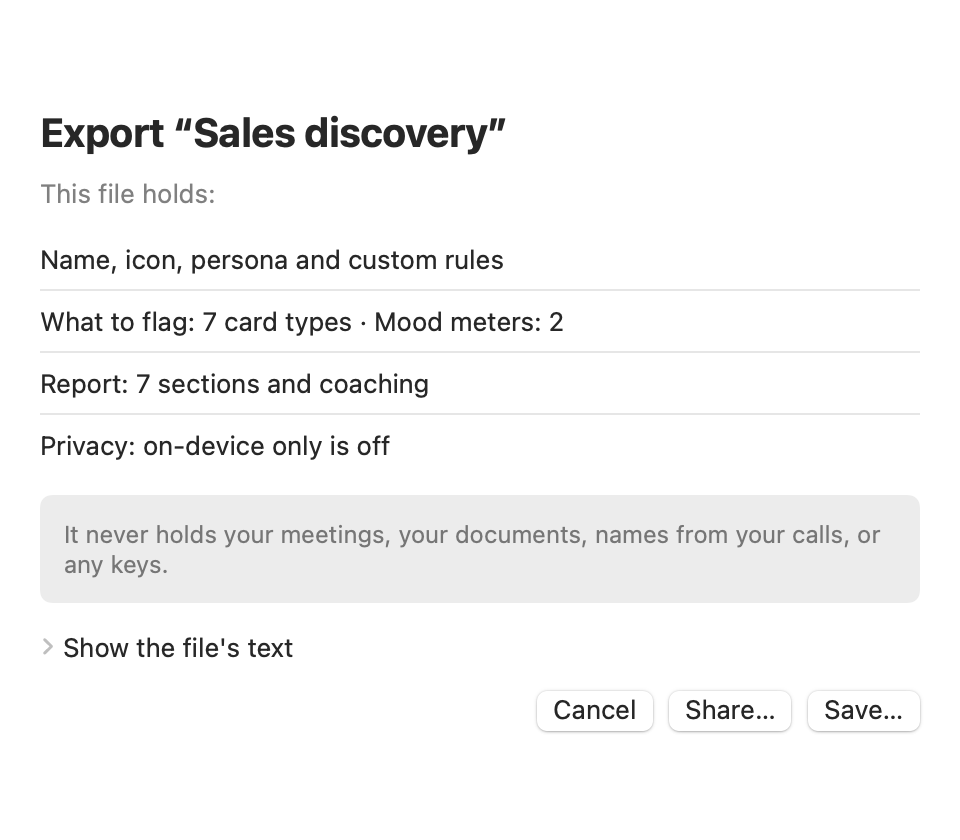
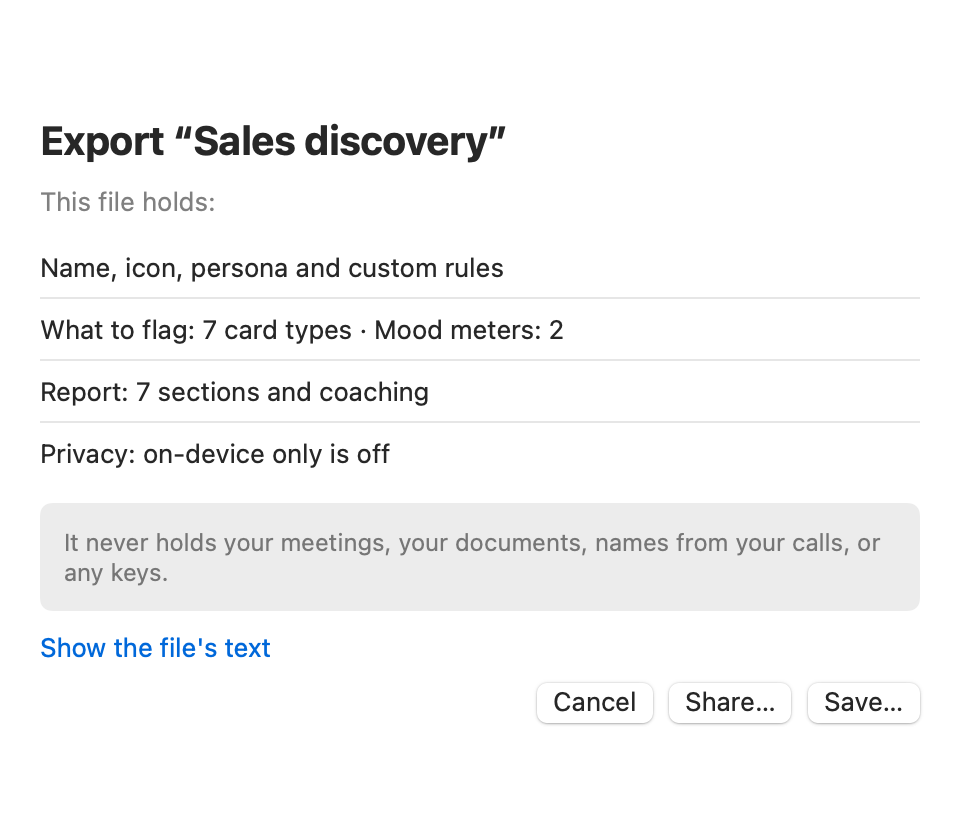
Docs for 0.28.0: What's new, README and help for Profiles 2.0
Help: rewrite progress (Keep working, Stop), the exact Reset to the ...
report label, the review screen listing custom rules, the one-time
update screen and its "Before Profiles 2.0" version, and that the update
is one way. New export shot (the file's text is now a link). README:
eight built-ins, a report per profile, scorecards, share, Claude
suggestions, Rewrite Report.

diff --git a/docs/help/profiles.html b/docs/help/profiles.html
@@ -3,7 +3,7 @@
 <head>
 <meta charset="utf-8">
 <meta name="viewport" content="width=device-width, initial-scale=1">
-<meta name="keywords" content="profiles, call types, sales, coaching, interview, kinds, card kinds, gauges, persona, tone, custom rules, trigger, pinned, priority, internal key, icon, color, edit, duplicate, advanced, report, report template, sections, scorecard, criteria, coaching, share, export, import, parrotprofile, saved versions, restore, investor pitch, profiles 2.0, backup, classic report">
+<meta name="keywords" content="profiles, call types, sales, coaching, interview, kinds, card kinds, gauges, persona, tone, custom rules, trigger, pinned, priority, internal key, icon, color, edit, duplicate, advanced, report, report template, sections, scorecard, criteria, coaching, share, export, import, parrotprofile, saved versions, restore, investor pitch, profiles 2.0, reports can now match, before profiles 2.0, reset report, downgrade, older version, backup, classic report">
 <title>Call profiles</title>
 <link rel="canonical" href="https://openparrot.app/help/profiles.html">
 <!-- The guide's home is openparrot.app/help. GitHub Pages sends visitors there; the in-app copy stays put. -->
@@ -93,7 +93,9 @@ shape it.</p>
 </ul>
 
 <p>Editing anything makes it your own report, and improvements to the built-in
-stop reaching it. <strong>Reset</strong> brings the built-in's report back.
+stop reaching it. <strong>Reset to the Interview report</strong> (named after
+the profile) brings the built-in's report back. It asks first, and keeps yours
+under <a href="#versions">Saved versions</a>.
 Your custom rules still apply to the report, so "always mention budget" keeps
 working.</p>
 
@@ -120,8 +122,8 @@ report and the on-device only setting. It never carries your meetings, your
 documents, names from your calls, or any keys.</p>
 
 <p>To add one, double-click the file, drop it on the profile list, or use the
-import button under the list. Parrot shows what it would add or change before
-anything happens:</p>
+import button under the list. Parrot shows everything it would add or change,
+custom rules included, before anything happens:</p>
 
 <img src="img/profile-review.png" alt="The review screen: who it came from and why, persona before and after, cards added and removed">
 
@@ -155,8 +157,11 @@ update did:</p>
   <li>Past meetings keep their reports. For a new-style report on one, use
   <a href="reports.html#rewrite">Rewrite Report</a>.</li>
   <li>A backup of every profile was saved first. The screen you saw after the
-  update has <strong>Show backup in Finder</strong>; to bring one back, import
-  it.</li>
+  update, <strong>Reports can now match each call type</strong>, has
+  <strong>Show backup in Finder</strong>; to bring one back, import it. Each
+  profile's Saved Versions also has <strong>Before Profiles 2.0</strong>.</li>
+  <li>The update is one way: an older version of Parrot can't open your
+  meetings afterwards.</li>
 </ul>
 <p>To switch a built-in back, pick <strong>Classic report</strong> in its Report
 menu.</p>

diff --git a/docs/help/reports.html b/docs/help/reports.html
@@ -3,7 +3,7 @@
 <head>
 <meta charset="utf-8">
 <meta name="viewport" content="width=device-width, initial-scale=1">
-<meta name="keywords" content="report, write report, no report, summary, coaching, talk balance, cost, price, tokens, export, markdown, polish, speakers, who said what, name speaker, remember voices, live speaker labels, scorecard, rewrite, rewrite report, undo rewrite, report template, profile">
+<meta name="keywords" content="report, write report, no report, summary, coaching, talk balance, cost, price, tokens, export, markdown, polish, speakers, who said what, name speaker, remember voices, live speaker labels, scorecard, rewrite, rewrite report, undo rewrite, keep working, stop rewrite, report template, profile">
 <title>Reports and costs</title>
 <link rel="canonical" href="https://openparrot.app/help/reports.html">
 <!-- The guide's home is openparrot.app/help. GitHub Pages sends visitors there; the in-app copy stays put. -->
@@ -74,7 +74,10 @@ profile.</p>
   Rewriting with an on-device only profile makes the meeting on-device only
   too, and undo doesn't change that back.</li>
   <li>A rewrite doesn't send the webhook again or add Reminders again.</li>
-  <li>Local models can take a few minutes. <strong>Cancel</strong> keeps the old
+  <li>With a local model it can take a minute or more, so Parrot shows which
+  step it's on (the report, then the coaching) and for how long.
+  <strong>Keep working</strong> closes the window while it carries on: the
+  meeting page shows it until it's done. <strong>Stop</strong> keeps the old
   report.</li>
 </ul>
 

diff --git a/Parrot/Services/WhatsNew.swift b/Parrot/Services/WhatsNew.swift
@@ -13,12 +13,11 @@ struct WhatsNew: Equatable {
 
     /// The entry for the version being released. Empty highlights until the
     /// next release writes its own: no card, no notes.
-    static let current = WhatsNew(version: "0.27.3", headline: "Fresh feathers! Parrot 0.27.3", highlights: [
-        "The Assistant's first tip now arrives once the call gets down to business.",
-        // 0.27.2 was out for hours: most people skip straight here, so it carries forward.
-        "No report on a meeting? Write report on its Report tab makes one, Assistant on or off.",
-        "On speakers, fewer echoes land under your name, even when you do most of the talking.",
-        "Clicking a line in a long transcript jumps there right away.",
+    static let current = WhatsNew(version: "0.28.0", headline: "Parrot 0.28.0 learned a few new tricks", highlights: [
+        "Each kind of call gets its own report. Shape it in Settings → Profiles → Report.",
+        "Interviews get a scorecard: each point scored 1 to 5, with the moment that shows it.",
+        "Rewrite an old report with any profile, and undo it in one click.",
+        "Share profiles with a colleague, or let Claude suggest a better one for you to review.",
     ])
 
     /// For the help shot and the harness.

diff --git a/README.md b/README.md
@@ -75,7 +75,7 @@ Chat with all your calls (⌘K): *"What did I promise Acme?"*, then *"and what d
 
 ### 🤝 Use your meetings in Claude
 
-Free, no meeting bot, no 30-day limit, and your meetings stay on your Mac until you ask. Connect Claude Desktop in one click (or Claude Code, Codex for ChatGPT plans, or Cursor) and your own plan does the thinking: *"What did I promise last week?"*, *"Brief me for my call with Acme"*, *"Draft the follow-up for this morning's call"*, *"Coach me across my last 10 calls"*. Claude gets real speaker names, long transcripts in pages, promises with their owners, talk time, and four ready-made actions in its **+** menu (weekly digest, follow-up email, prep for a call, PRD from calls). It's read-only: you choose what it sees (transcripts, reports, notes, Assistant cards, whole call types), on-device-only meetings are never shown, and Parrot tells you how often it was read. Open **Claude & AI Apps** in the sidebar. [How it works](https://openparrot.app/help/claude.html).
+Free, no meeting bot, no 30-day limit, and your meetings stay on your Mac until you ask. Connect Claude Desktop in one click (or Claude Code, Codex for ChatGPT plans, or Cursor) and your own plan does the thinking: *"What did I promise last week?"*, *"Brief me for my call with Acme"*, *"Draft the follow-up for this morning's call"*, *"Coach me across my last 10 calls"*. Claude gets real speaker names, long transcripts in pages, promises with their owners, talk time, and four ready-made actions in its **+** menu (weekly digest, follow-up email, prep for a call, PRD from calls). It can't change your meetings: you choose what it sees (transcripts, reports, notes, Assistant cards, whole call types), on-device-only meetings are never shown, and Parrot tells you how often it was read. The one thing it can send back is a suggested profile, which waits for your review. Open **Claude & AI Apps** in the sidebar. [How it works](https://openparrot.app/help/claude.html).
 
 ### 🎭 Call profiles: one app, every kind of call
 
@@ -83,8 +83,11 @@ Free, no meeting bot, no 30-day limit, and your meetings stay on your Mac until 
 
 Tell Parrot what kind of call it is, and the profile decides what the Assistant watches for and how the report is written.
 
-- **Seven built-ins:** Default, Sales discovery, 1:1 coaching, Interview, Customer support, Vendor call, Generic. Sales looks for objections and buying signals; Interview for follow-ups and red flags; a 1:1 gets reflections and open questions.
+- **Eight built-ins:** Default, Sales discovery, 1:1 coaching, Interview, Customer support, Vendor call, Investor pitch, Generic. Sales looks for objections and buying signals; Interview for follow-ups and red flags; a 1:1 gets reflections and open questions.
+- **A report of its own:** each profile shapes the report after its calls. Sections in your own words, as bullets or paragraphs; a **scorecard** that scores criteria from 1 to 5, each with the moment that shows it; which section holds promises; and whether to coach. A sales report asks about budget, who decides and timeline; an interview gets a scorecard.
 - **Make your own:** name it, say who the other side is, write a persona and rules, choose which documents it uses, add your own card types (with color, icon, "keep on screen until handled") and gauges.
+- **Share it:** export a `.parrotprofile` for a colleague, or import theirs. Parrot shows every change before it applies one, and a file can switch on-device only on, never off. The last five versions of each profile are kept, one click to restore.
+- **Let Claude tune it:** Claude can read your recent calls and suggest a better profile. It lands in Parrot for you to review: Apply, Save as new, or Discard.
 
 ### 🗣 Speaker names: names, not "Speaker 2"
 
@@ -102,7 +105,8 @@ Tell Parrot what kind of call it is, and the profile decides what the Assistant 
 <p align="center"><img src=".github/readme/after.png" alt="A post-call report: summary, pain points, talk balance, objections handled and missed, what went well, what to improve, and commitments" width="480"></p>
 
 - **How the call went:** a timeline at the top of the report with your talk share against theirs minute by minute, the profile's main gauge over the call, and numbered moments (tips, turning points, your marks) with Play.
-- **Summary:** overview, pain points, key points, next steps.
+- **Summary:** shaped by the call's profile; by default overview, pain points, key points, next steps.
+- **Rewrite Report:** recorded under the wrong profile, or changed one since? Rewrite any past report with any profile, and undo it in one click.
 - **Receipts on every point.** Each bullet carries a time chip (`12:34`): click it for the exact quote, *Play from Here* or *Show in Transcript*. Chips are checked against the transcript on your Mac, and a promise nobody actually made is marked *unverified* instead of stated as fact.
 - **Moments you marked** during the call (the *Mark* button, or ⌃⌥M from any app) get their own card, and the report is written knowing they mattered.
 - **Share it:** a follow-up email with only the promises actually made (opens in Mail, addressed to the invitees), next steps into Apple Reminders, Markdown notes into your Obsidian vault or any folder (automatically, if you like), or a webhook to Zapier/Make/n8n for Slack, Notion and CRMs.
